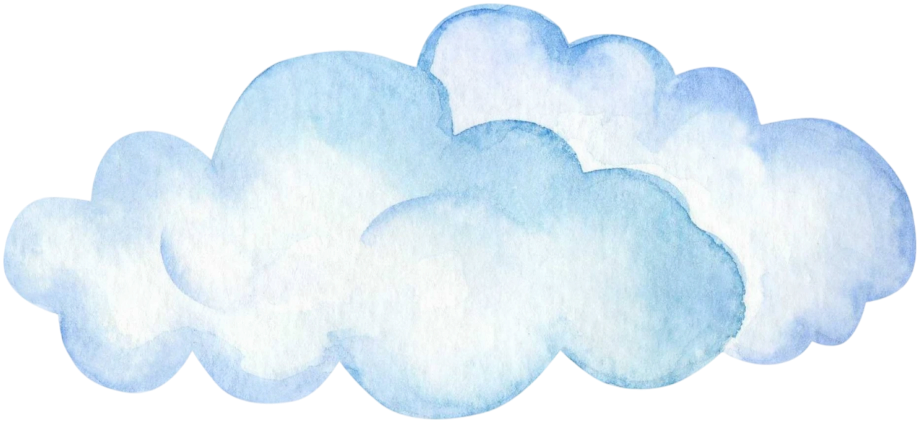
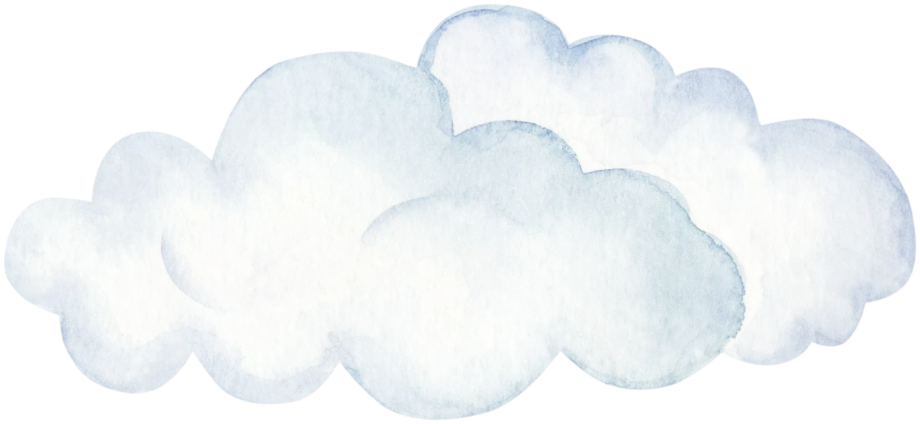
Карта: новое облако автора

Changed region(s): [[0.0, 0.0, 1.0, 1.0]]

diff --git a/index.html b/index.html
@@ -62,7 +62,7 @@
       <!-- Объекты: кнопки, открывающие разделы -->
       <button class="map-object map-object--memes" type="button" data-section="memes">
         <span class="map-object__art map-object__art--cloud">
-          <img src="assets/map/cloud.png" alt="" width="920" height="423">
+          <img src="assets/map/cloud.png" alt="" width="920" height="424">
         </span>
         <span class="map-object__label" data-text="sections.memes.mapLabel"></span>
       </button>

diff --git a/CLAUDE.md b/CLAUDE.md
@@ -32,8 +32,9 @@
 - Главный ориентир — `docs/references/ref-1-park.jpg`: насыщенная природная палитра, без чёрных контуров,
   объём светом (светлое сверху-слева), зернистость и неровные «кистевые» края, много мелких деталей.
   Второй референс — `docs/references/ref-2-giorni.jpg`.
-- «Мемное облако» — готовая акварельная картинка автора `docs/references/ref-8-cloud-source.webp`,
-  обрезанная и уменьшенная в `assets/map/cloud.png` (920 px). Нарисованные кодом варианты отклонены.
+- «Мемное облако» — готовая акварельная картинка автора `docs/references/ref-10-cloud-source-v2.webp`
+  (вторая версия, перекрашенная автором), обрезанная и уменьшенная в `assets/map/cloud.png` (920 px).
+  Нарисованные кодом варианты отклонены.
   Томаты — форма по `ref-4-tomato.jpg`, однотонные `#ef8d88`, каждый повёрнут по-своему (`--turn`).
   Горы — плоскости как из бумаги по `ref-7-papercut-valley.jpg`: диагональные тени и светлые складки, без штриховки.
   `ref-5-blue-rock.jpg` — штриховка, пока не используется.
